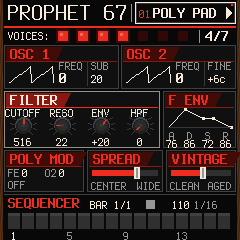
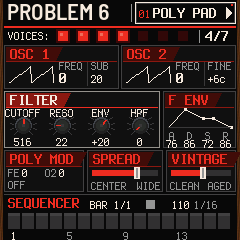
FM-1 mod: PROBLEM 6 (repo PROBLEM-6), its new screenshot
Claude-Session: https://claude.ai/code/session_019gwqiQp3smT3NCa5dyHjLk

Changed region(s): [[0.0292, 0.0, 0.525, 0.0875]]

diff --git a/index.html b/index.html
@@ -659,15 +659,15 @@
         </div>
       </div>
     </article>
-    <article class="card" data-repo="PROPHET-67" data-asset=".fwsc">
+    <article class="card" data-repo="PROBLEM-6" data-asset=".fwsc">
       <div class="shot"><img src="img/prophet-67.png" alt="PROBLEM 6 screen" loading="lazy"></div>
       <div class="body">
         <h3>PROBLEM 6<span class="vers"><span class="ver" data-ver>v1.4</span></span></h3>
         <p>Seven-voice polysynth with Poly Mod, Vintage, a step sequencer and an arp. The plugin's twin.</p>
         <div class="actions">
           <a class="btn solid" href="https://thefirmwarehub.com/#fw-prophet67" target="_blank" rel="noopener" title="Install it straight from your browser via The Firmware Hub">⚡ Install</a>
-          <a class="btn ghost" data-dl href="https://github.com/swtdr34mz-afk/PROPHET-67/releases/latest" target="_blank" rel="noopener">Download</a>
-          <a class="btn ghost" href="https://swtdr34mz-afk.github.io/PROPHET-67/emu/" target="_blank" rel="noopener">▶ Play</a>
+          <a class="btn ghost" data-dl href="https://github.com/swtdr34mz-afk/PROBLEM-6/releases/latest" target="_blank" rel="noopener">Download</a>
+          <a class="btn ghost" href="https://swtdr34mz-afk.github.io/PROBLEM-6/emu/" target="_blank" rel="noopener">▶ Play</a>
         </div>
       </div>
     </article>
